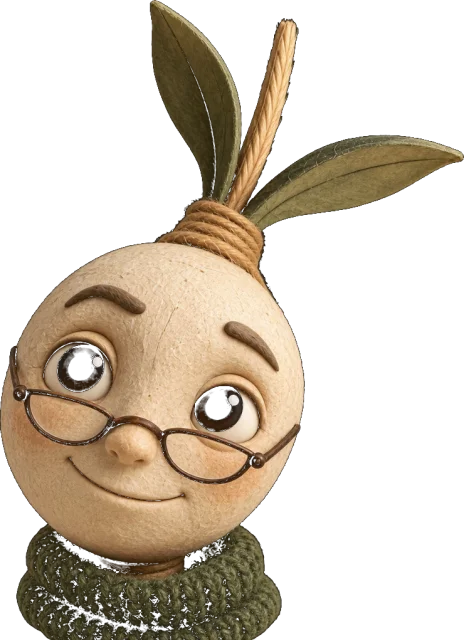
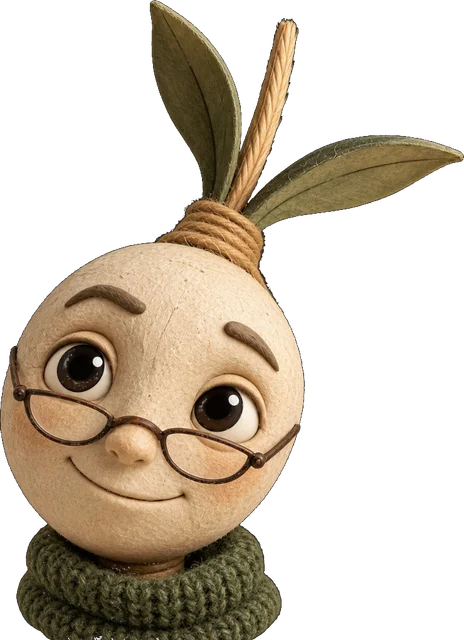
fix(spec-R004): rellena los agujeros de ojos y bufandas en los personajes recortados

diff --git a/specs/r004-frontend-personajes-sin-fondo.md b/specs/r004-frontend-personajes-sin-fondo.md
@@ -73,3 +73,15 @@ pesa ~900 KB y hay copias `.jpg` sin uso.
 ## Fuera de alcance
 
 Animar al personaje o el cambio de modo: es R-008, que construye sobre `ReedCharacter`.
+
+## Bugs encontrados al aplicar
+
+**07-oct-2026 — ojos y bufandas con agujeros.** Los PNG de origen no solo tenían el fondo
+transparente: el recorte original había borrado también los píxeles oscuros **dentro** del
+personaje (pupilas e iris, el párpado del modo dormido, huecos del tejido de la bufanda). Mientras
+cada retrato vivía en su caja con `bg-paper-raised`, ese fondo rellenaba los agujeros y no se
+notaba; al quitar la caja (este spec) la página se veía a través de los ojos. Corrección: se
+tomaron los `.jpg` originales (fondo negro, sin agujeros, borrados en el commit de este spec), se
+rellenaron con sus colores las zonas transparentes que no tocan el borde de la imagen (+2 px de
+borde suave) y se repitió la conversión de arriba (trim, 640 px de alto, `cwebp -q 85
+-alpha_q 100`). Pesos nuevos: 53,7–60,3 KB, mismas dimensiones (±1 px).
